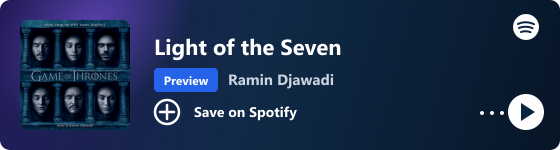
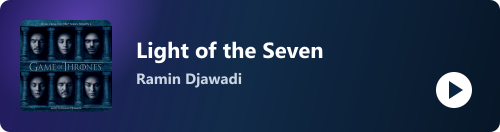
Simplify Spotify profile card

diff --git a/README.md b/README.md
@@ -19,7 +19,7 @@
 
 <p align="center">
   <a href="https://open.spotify.com/track/6iLzFJhs4ATwJn7P1utZIJ?si=d030dc66af254a09">
-    <img src="assets/spotify-light-of-the-seven-card.png" alt="Light of the Seven by Ramin Djawadi" width="560" />
+    <img src="assets/spotify-light-of-the-seven-card.png" alt="Light of the Seven by Ramin Djawadi" width="500" />
   </a>
 </p>
 
